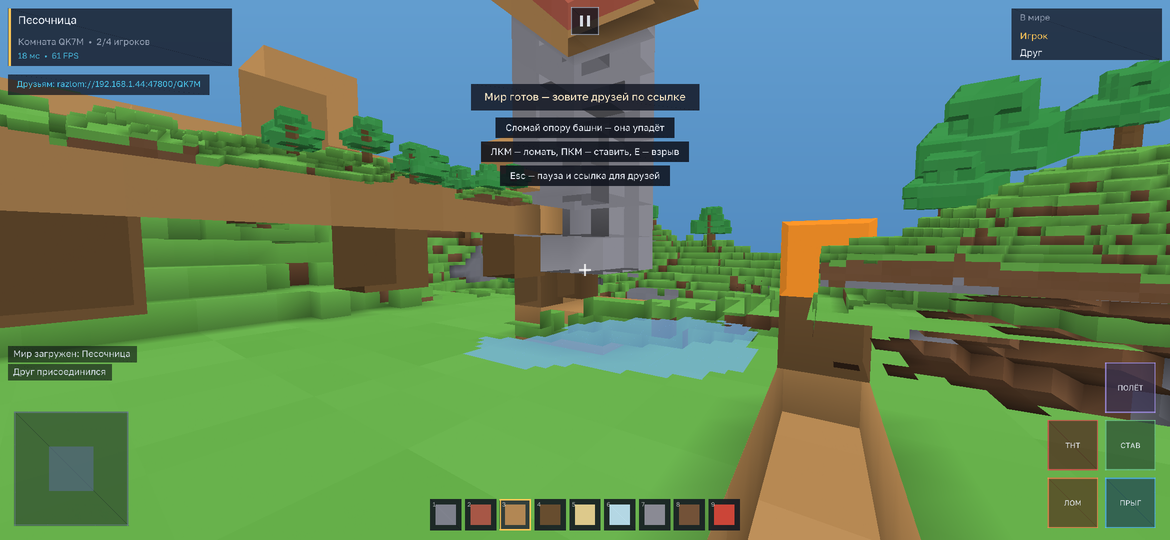
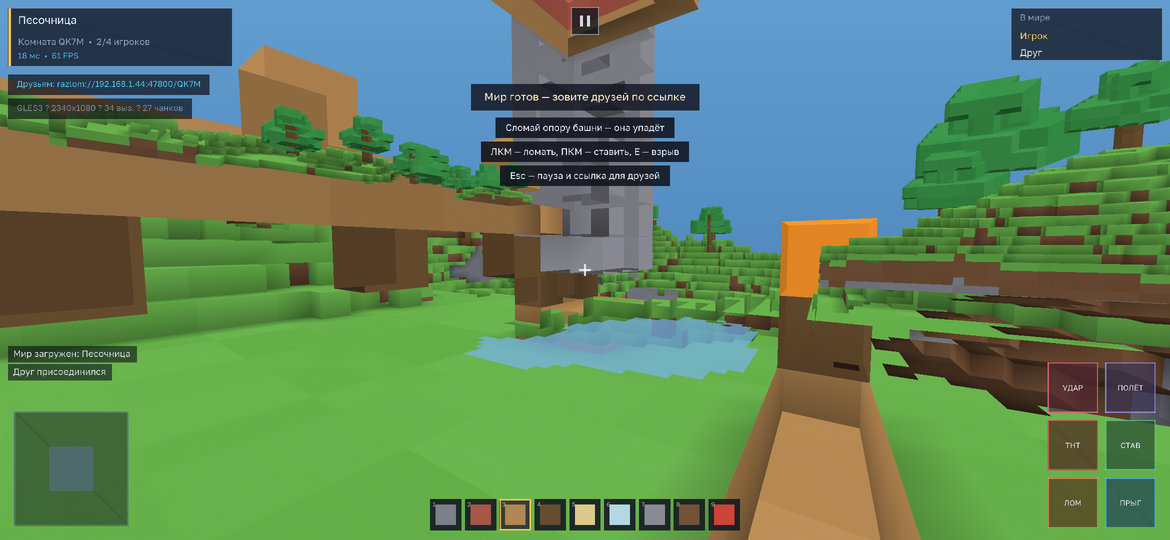
feat(hud): диагностика кадра на игровом экране
По скриншоту с телефона было не понять, дошёл ли мир хотя бы до вызова
отрисовки: HUD рисовался, а данных о кадре не было. Теперь под панелью
ссылки видна строка Renderer::statsLine(): бэкенд, размер кадра, число
вызовов отрисовки и чанков в кадре. Плюс тест, что строка рисуется и не
улетает за правый край; preview-кадры обновлены.

diff --git a/tests/test_ui.cpp b/tests/test_ui.cpp
@@ -208,4 +208,31 @@ TEST(hud_catalog_launch_buttons) {
     CHECK(d.vertices > 100);
 }
 
+// Диагностика кадра видна и на игровом экране: по скриншоту с телефона сразу
+// понятно, сколько вызовов отрисовки и чанков дошло до экрана (этим мы и
+// отлаживали «HUD есть, мира нет»).
+TEST(hud_playing_shows_frame_stats) {
+    Hud hud;
+    hud.init(&atlas());
+    HudModel model = menuModel();
+    model.screen = Screen::Playing;
+    model.showTouch = false;
+    HudInput input;
+    input.width = 1280;
+    input.height = 760;
+    HudResult result;
+
+    model.stats.clear();
+    hud.draw(model, input, result);
+    const size_t withoutStats = hud.vertices().size();
+
+    model.stats = "GLES3 · 2340x1080 · 30 выз. · 12 чанков";
+    hud.draw(model, input, result);
+    CHECK(hud.vertices().size() > withoutStats);
+
+    float maxX = 0.0f;
+    for (const auto& v : hud.vertices()) maxX = std::max(maxX, v.x);
+    CHECK(maxX <= static_cast<float>(input.width) + 1.0f);
+}
+
 int main() { return test::runAll(); }

diff --git a/src/client/hud.cpp b/src/client/hud.cpp
@@ -374,6 +374,15 @@ void Hud::drawPlaying(const HudModel& model, const HudInput& input, HudResult& r
         text(28.0f * s, 131.0f * s, link, kAccent2R, kAccent2G, kAccent2B, 235, 0.56f * s);
     }
 
+    // --- диагностика кадра: по скриншоту видно, дошёл ли мир до экрана ---
+    // (сколько вызовов отрисовки и чанков в кадре; на меню-экране эта же строка внизу)
+    if (!model.stats.empty()) {
+        const float dbgY = 164.0f * s;
+        const float dbgW = measure(model.stats, 0.56f * s) + 28.0f * s;
+        rect(14.0f * s, dbgY, dbgW, 34.0f * s, 10, 12, 18, 170);
+        text(28.0f * s, dbgY + 7.0f * s, model.stats, kMutedR, kMutedG, kMutedB, 190, 0.56f * s);
+    }
+
     // --- игроки ---
     const float listW = 250.0f * s;
     const float listX = w - listW - 14.0f * s;

diff --git a/tools/preview.cpp b/tools/preview.cpp
@@ -282,6 +282,8 @@ razlom::client::HudModel baseModel(razlom::client::Screen screen) {
     model.toast = "Мир готов — зовите друзей по ссылке";
     model.toastTimer = 2.0f;
     model.showTouch = false;
+    // та же диагностическая строка, что клиент показывает в игре (Renderer::statsLine)
+    model.stats = "GLES3 · 2340x1080 · 34 выз. · 27 чанков";
     razlom::client::HudPlayerRow self;
     self.name = "Игрок";
     self.health = 82;
